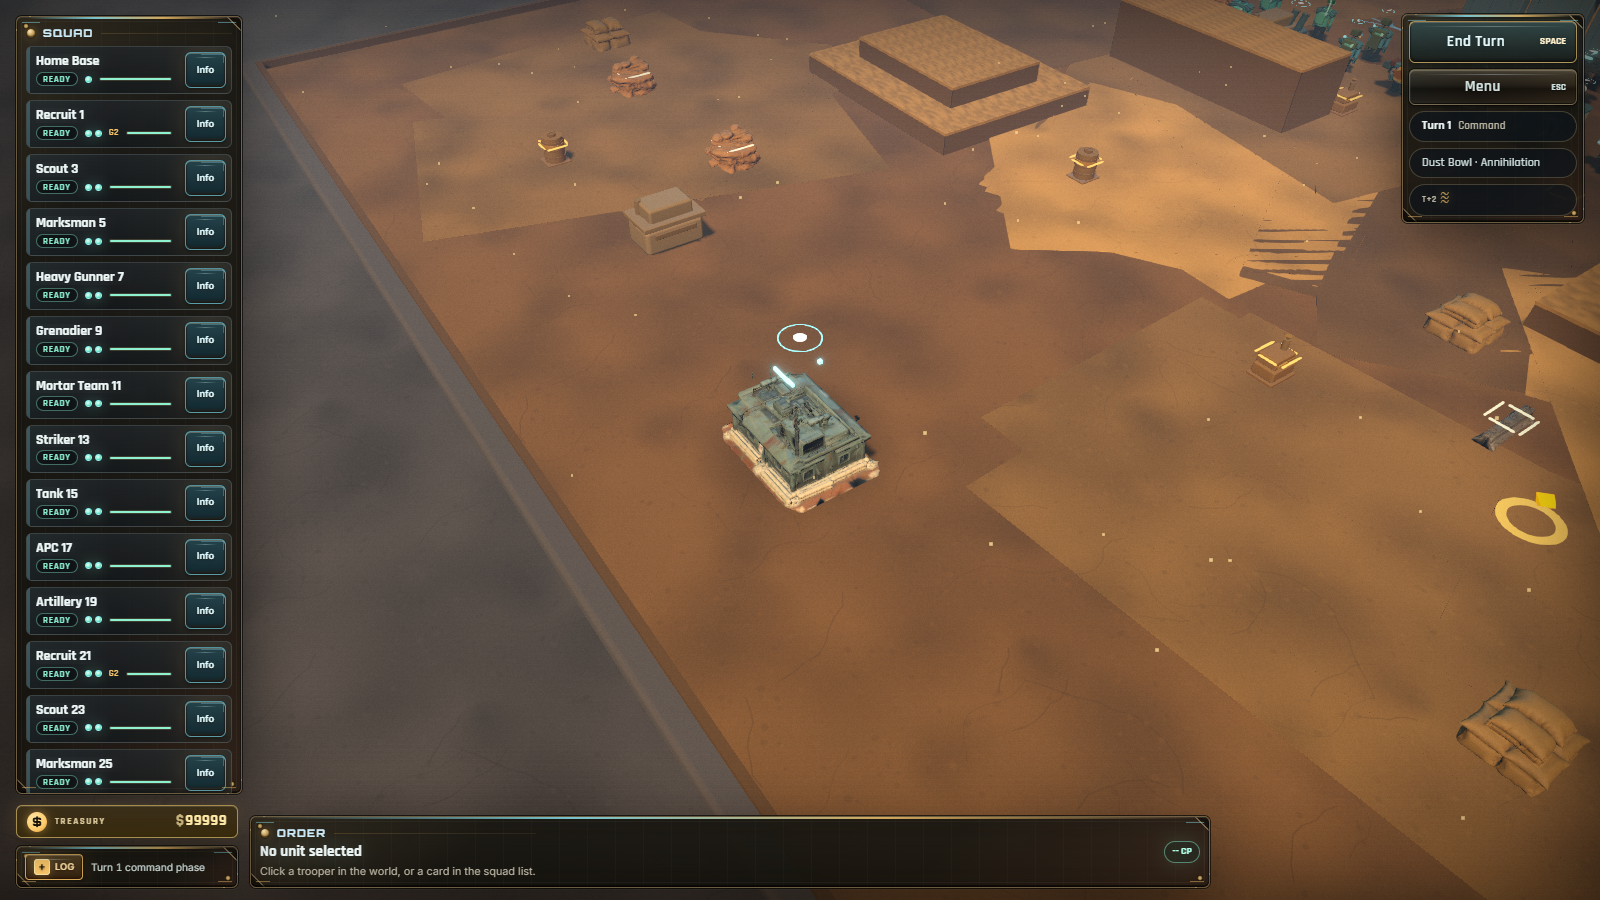
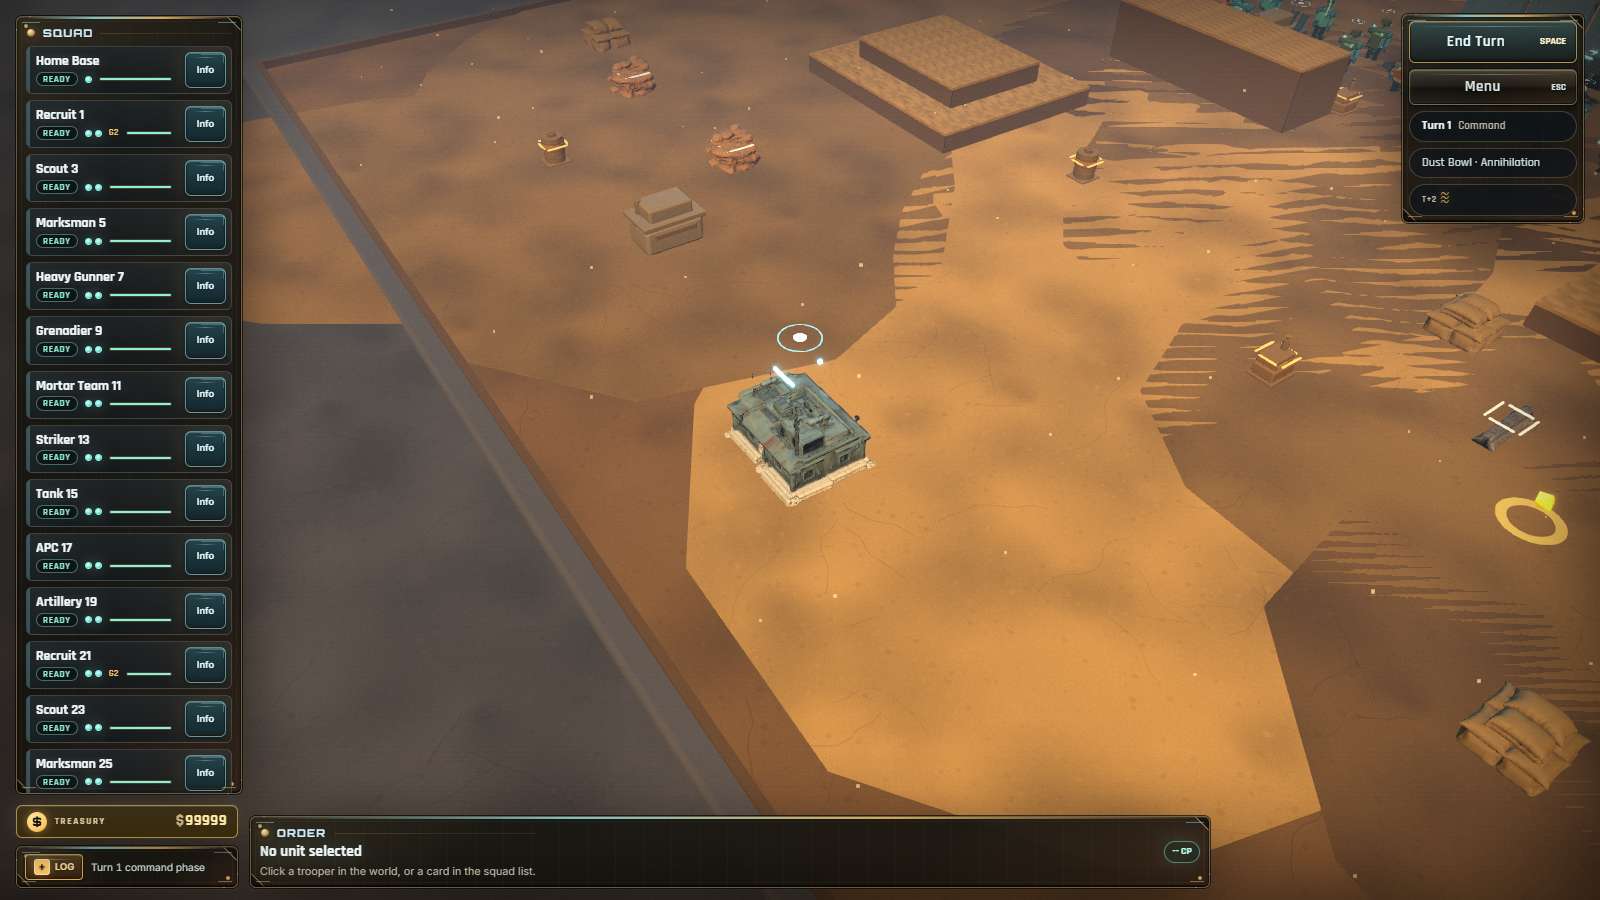
Ground patches as blobs, not rectangles; finish off the shadow acne
You flagged "cutting arrows/corners that don't look right" — those were my own
ground patches. Each was the union of three rotated rounded RECTANGLES, and the
union of rectangles has straight edges and sharp corners: at tactical distance they
read as arrowheads and cut corners lying on the ground, i.e. as a clipping bug.
Patches are now built from jittered polygon blobs — the rim radius wanders on two
low-frequency waves with random phase, so the outline undulates and has no straight
edge or corner anywhere on it.

And the last of the shadow acne. It survived normalBias 0.55 specifically on
Ironworks, whose terrain is LOW and BROAD: a short block's shadow lands right
against its own base, where the depth difference is smallest and acne is worst. Bias
-0.004 with normalBias 0.9 clears it. The cost is real and worth naming: cast
shadows detach slightly from small props. Contact shadows and the baked vertex AO
carry the grounding, and a clean board beats a crisp crate shadow.

Also removed: the per-map horizon landmark from the last commit. Good composition
advice that this camera cannot use — pitched down at the board it shows sky in a
thin band, so a landmark far enough to read as scenery is off-frame and one close
enough to see intrudes over the rail as an ambiguous mass. Tried at three distances
and three brightnesses; the reasoning is recorded where it was, so the next round
doesn't retry it blind.

Image gate clean on all nine scenarios, UI audit clean, 370 tests green.

diff --git a/game/src/render/worldRenderer.ts b/game/src/render/worldRenderer.ts
@@ -4536,7 +4536,43 @@ function makeSurroundings(theme: MapTheme, width: number, depth: number, surface
  */
 /** One ground-texture tile per this many world units. Floor, mesa caps and plates all use it. */
 const GROUND_TILE = 11;
-const PLATE_THICKNESS = 0.01;
+/**
+ * A flat, irregular ground blob: a triangle fan whose rim radius wanders per vertex, so the outline
+ * has no straight edge and no corner anywhere on it. Lies in the XZ plane at `y`.
+ */
+function blobGeometry(radius: number, x: number, y: number, z: number, rand: () => number): THREE.BufferGeometry {
+  const segments = 22;
+  const positions = new Float32Array((segments + 2) * 3);
+  const uvs = new Float32Array((segments + 2) * 2);
+  positions[0] = x;
+  positions[1] = y;
+  positions[2] = z;
+  // Two low-frequency waves with random phase keep neighbouring rim vertices correlated, so the
+  // outline undulates instead of turning into a saw.
+  const p1 = rand() * Math.PI * 2;
+  const p2 = rand() * Math.PI * 2;
+  const a1 = 0.16 + rand() * 0.16;
+  const a2 = 0.08 + rand() * 0.12;
+  for (let i = 0; i <= segments; i += 1) {
+    const t = (i % segments) / segments;
+    const angle = t * Math.PI * 2;
+    const r = radius * (1 + Math.sin(angle * 2 + p1) * a1 + Math.sin(angle * 3 + p2) * a2);
+    const o = (i + 1) * 3;
+    positions[o] = x + Math.cos(angle) * r;
+    positions[o + 1] = y;
+    positions[o + 2] = z + Math.sin(angle) * r;
+  }
+  const indices: number[] = [];
+  for (let i = 1; i <= segments; i += 1) indices.push(0, i + 1, i);
+  const geometry = new THREE.BufferGeometry();
+  geometry.setAttribute("position", new THREE.BufferAttribute(positions, 3));
+  geometry.setAttribute("uv", new THREE.BufferAttribute(uvs, 2));
+  geometry.setAttribute("normal", new THREE.BufferAttribute(new Float32Array((segments + 2) * 3).fill(0), 3));
+  const normal = geometry.getAttribute("normal");
+  for (let i = 0; i < normal.count; i += 1) normal.setXYZ(i, 0, 1, 0);
+  geometry.setIndex(indices);
+  return geometry;
+}
 
 /**
  * Replace a (roughly flat, ground-lying) geometry's UVs with world-space ones at `tile` units per
@@ -4583,29 +4619,20 @@ function makeGroundPlates(theme: MapTheme, width: number, depth: number, surface
   for (const variant of variants) {
     const parts: THREE.BufferGeometry[] = [];
     for (let i = 0; i < perVariant; i += 1) {
-      // Two overlapping rounded slabs per patch, so the outline is irregular rather than a rectangle.
       const cx = (rand() - 0.5) * width * 0.92;
       const cz = (rand() - 0.5) * depth * 0.92;
-      const spin = rand() * Math.PI;
-      // Four overlapping rounded slabs per patch at scattered angles. Two gave a rectangle with
-      // soft corners, which reads as something PAINTED on the ground; four at spread angles give a
-      // lumpy union outline that reads as the ground itself changing.
-      for (let k = 0; k < 4; k += 1) {
-        const w = 5 + rand() * 11;
-        const d = 4 + rand() * 9;
-        // 2cm thick and topping out exactly at ground level. A patch of ground must never grow a
-        // visible SIDE: at this camera a few centimetres of lit edge reads as a terrace, and a
-        // terrace the player can walk straight over is a lie about the terrain.
-        const geo = new RoundedBoxGeometry(w, PLATE_THICKNESS, d, 1, Math.min(1.4, Math.min(w, d) * 0.3));
-        const m = new THREE.Matrix4()
-          // Stagger each slab of a patch a couple of millimetres in depth. Four overlapping slabs
-          // all topping out at exactly y=0 are COPLANAR where they overlap, and coplanar surfaces
-          // z-fight into a fine parallel hatch — the second of the two striping artefacts on the
-          // ground, and the one the shadow work could never have fixed.
-          .makeRotationY(spin + (rand() - 0.5) * 1.6)
-          .setPosition(cx + (rand() - 0.5) * 7, -k * 0.0018, cz + (rand() - 0.5) * 7);
-        geo.applyMatrix4(m);
-        parts.push(geo);
+      // Three overlapping JITTERED BLOBS per patch. The first version used rotated rounded boxes,
+      // and the union of rectangles has straight edges and sharp corners — at tactical distance
+      // those read as arrowheads and cut corners lying on the ground, i.e. as a rendering glitch
+      // rather than as terrain. A polygon whose every rim vertex is jittered has neither.
+      for (let k = 0; k < 3; k += 1) {
+        parts.push(blobGeometry(
+          6 + rand() * 9,
+          cx + (rand() - 0.5) * 9,
+          -k * 0.0018,
+          cz + (rand() - 0.5) * 9,
+          rand,
+        ));
       }
     }
     const merged = mergeGeometries(parts, false);
@@ -4636,6 +4663,14 @@ function makeGroundPlates(theme: MapTheme, width: number, depth: number, surface
   }
   return group;
 }
+
+
+// (Removed: a per-map vertical LANDMARK on the horizon. The idea is sound and it is standard
+// composition advice, but it does not survive this camera: pitched down at the board, the frame
+// shows sky in a thin band, so a landmark far enough away to read as scenery is off-frame in
+// almost every shot, and one close enough to be seen intrudes over the rail as an ambiguous mass
+// cut by the frame edge. Tried at 0.92, 0.62 and 0.58 of the map's long axis and at three
+// brightnesses. If it is revisited, it needs a camera that shows the horizon, not a nearer prop.)
 
 function makeTerrainBlocks(groundColor: number, accentColor: number, surface: GroundSurface): THREE.Group {
   const group = new THREE.Group();

diff --git a/game/src/render/stage.ts b/game/src/render/stage.ts
@@ -160,14 +160,14 @@ export class Stage {
     key.shadow.camera.bottom = -SHADOW_RADIUS;
     key.shadow.camera.near = 1;
     key.shadow.camera.far = 120;
-    key.shadow.bias = -0.0008;
+    key.shadow.bias = -0.004;
     // NORMAL BIAS IS SIZED TO THE TEXEL, NOT PICKED BY EYE. The shadow frustum spans 112x68 world
     // units at 2048^2, so one shadow texel is ~5.5cm on the ground. At 0.05 the bias was a tenth of
     // a texel, and the near-flat arena floor under a low sun self-shadowed into regular diagonal
     // banding — the dashes visible across the ground in every screenshot, which read as a texture
     // artefact and are not one. Roughly four texels of normal bias clears it without detaching
     // contact shadows from the units that cast them.
-    key.shadow.normalBias = 0.55;
+    key.shadow.normalBias = 0.9;
     this.keyLight = key;
     this.scene.add(key);
 
